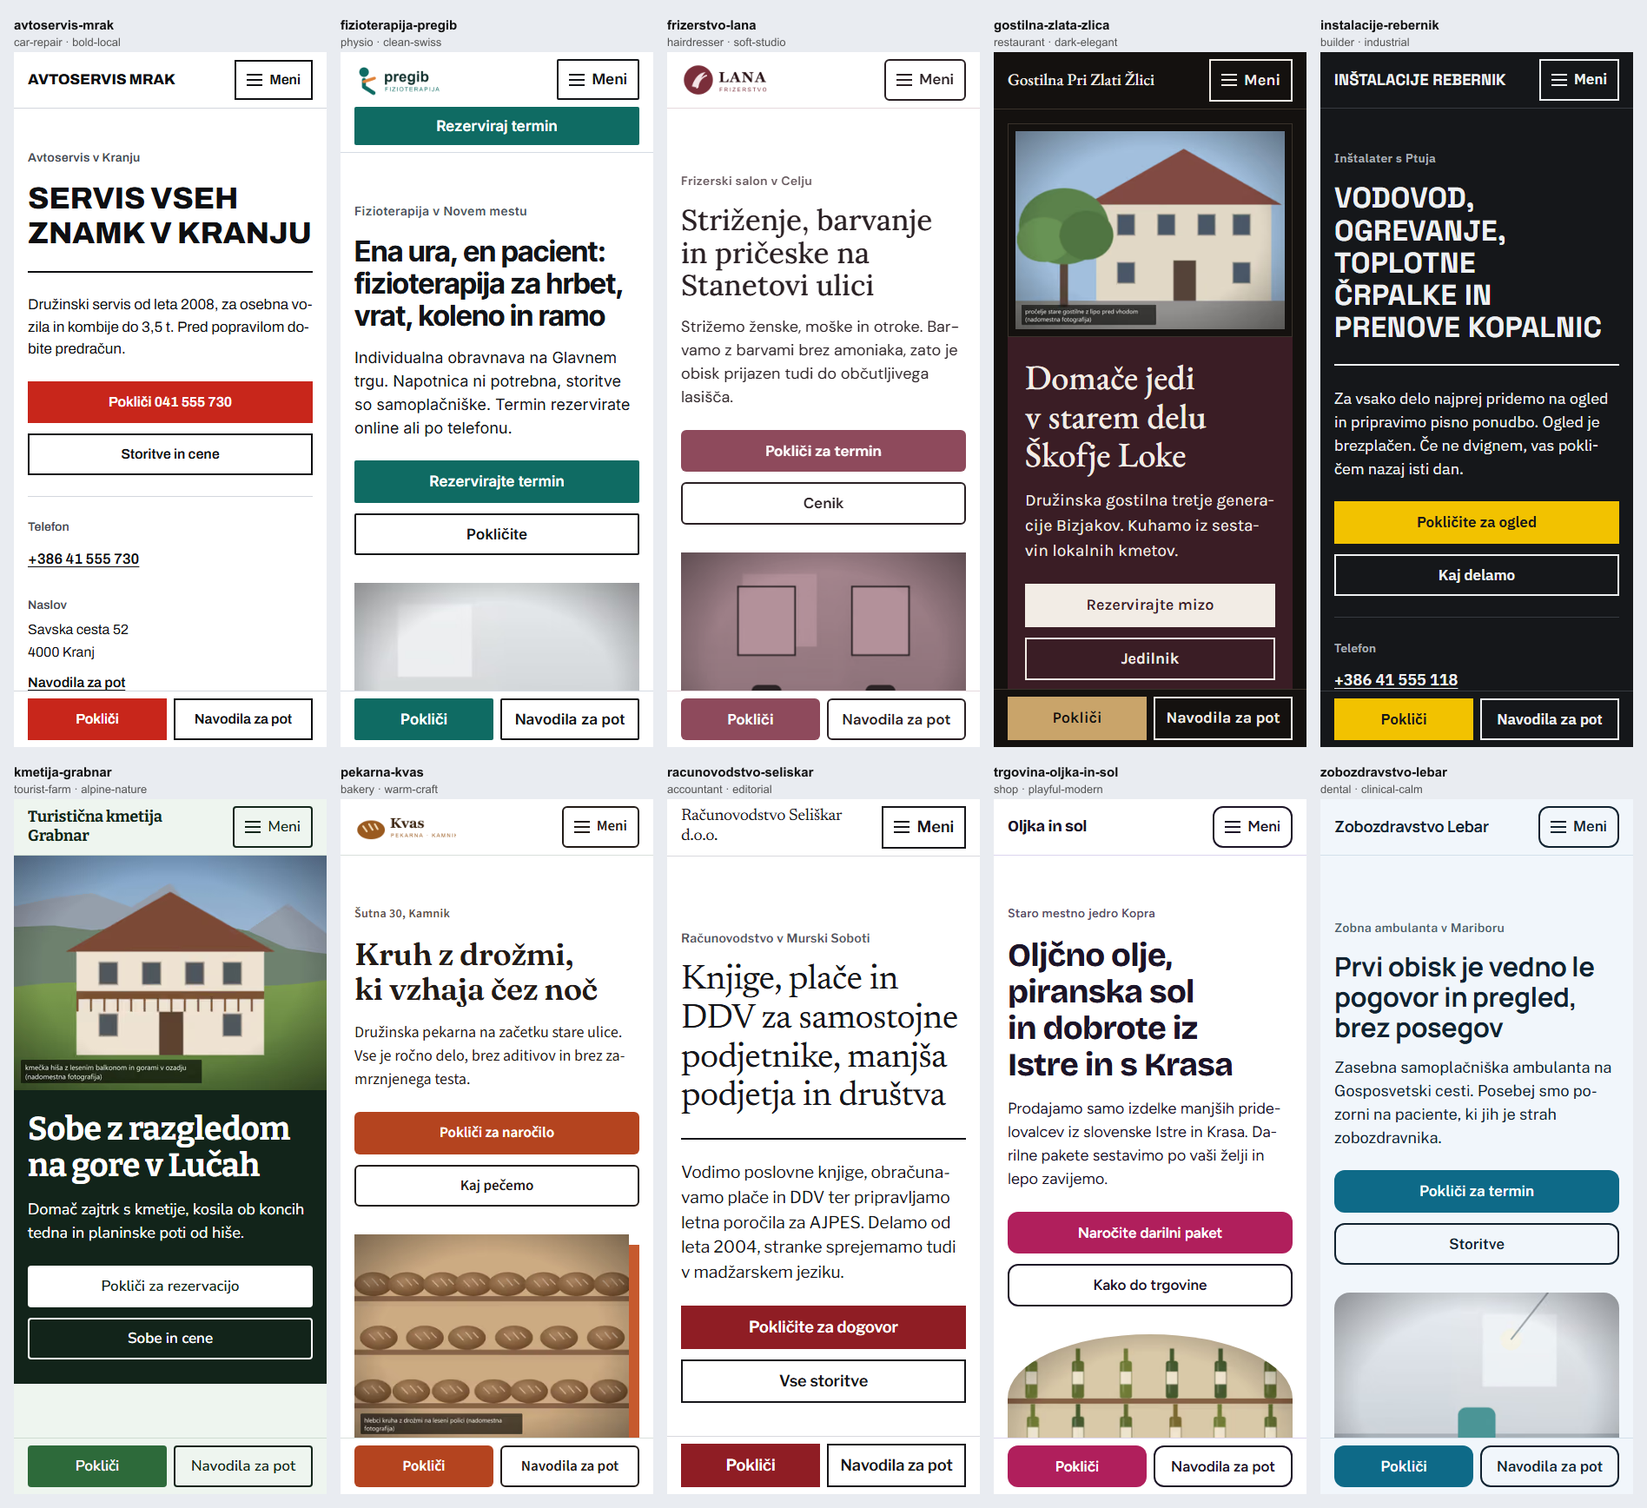
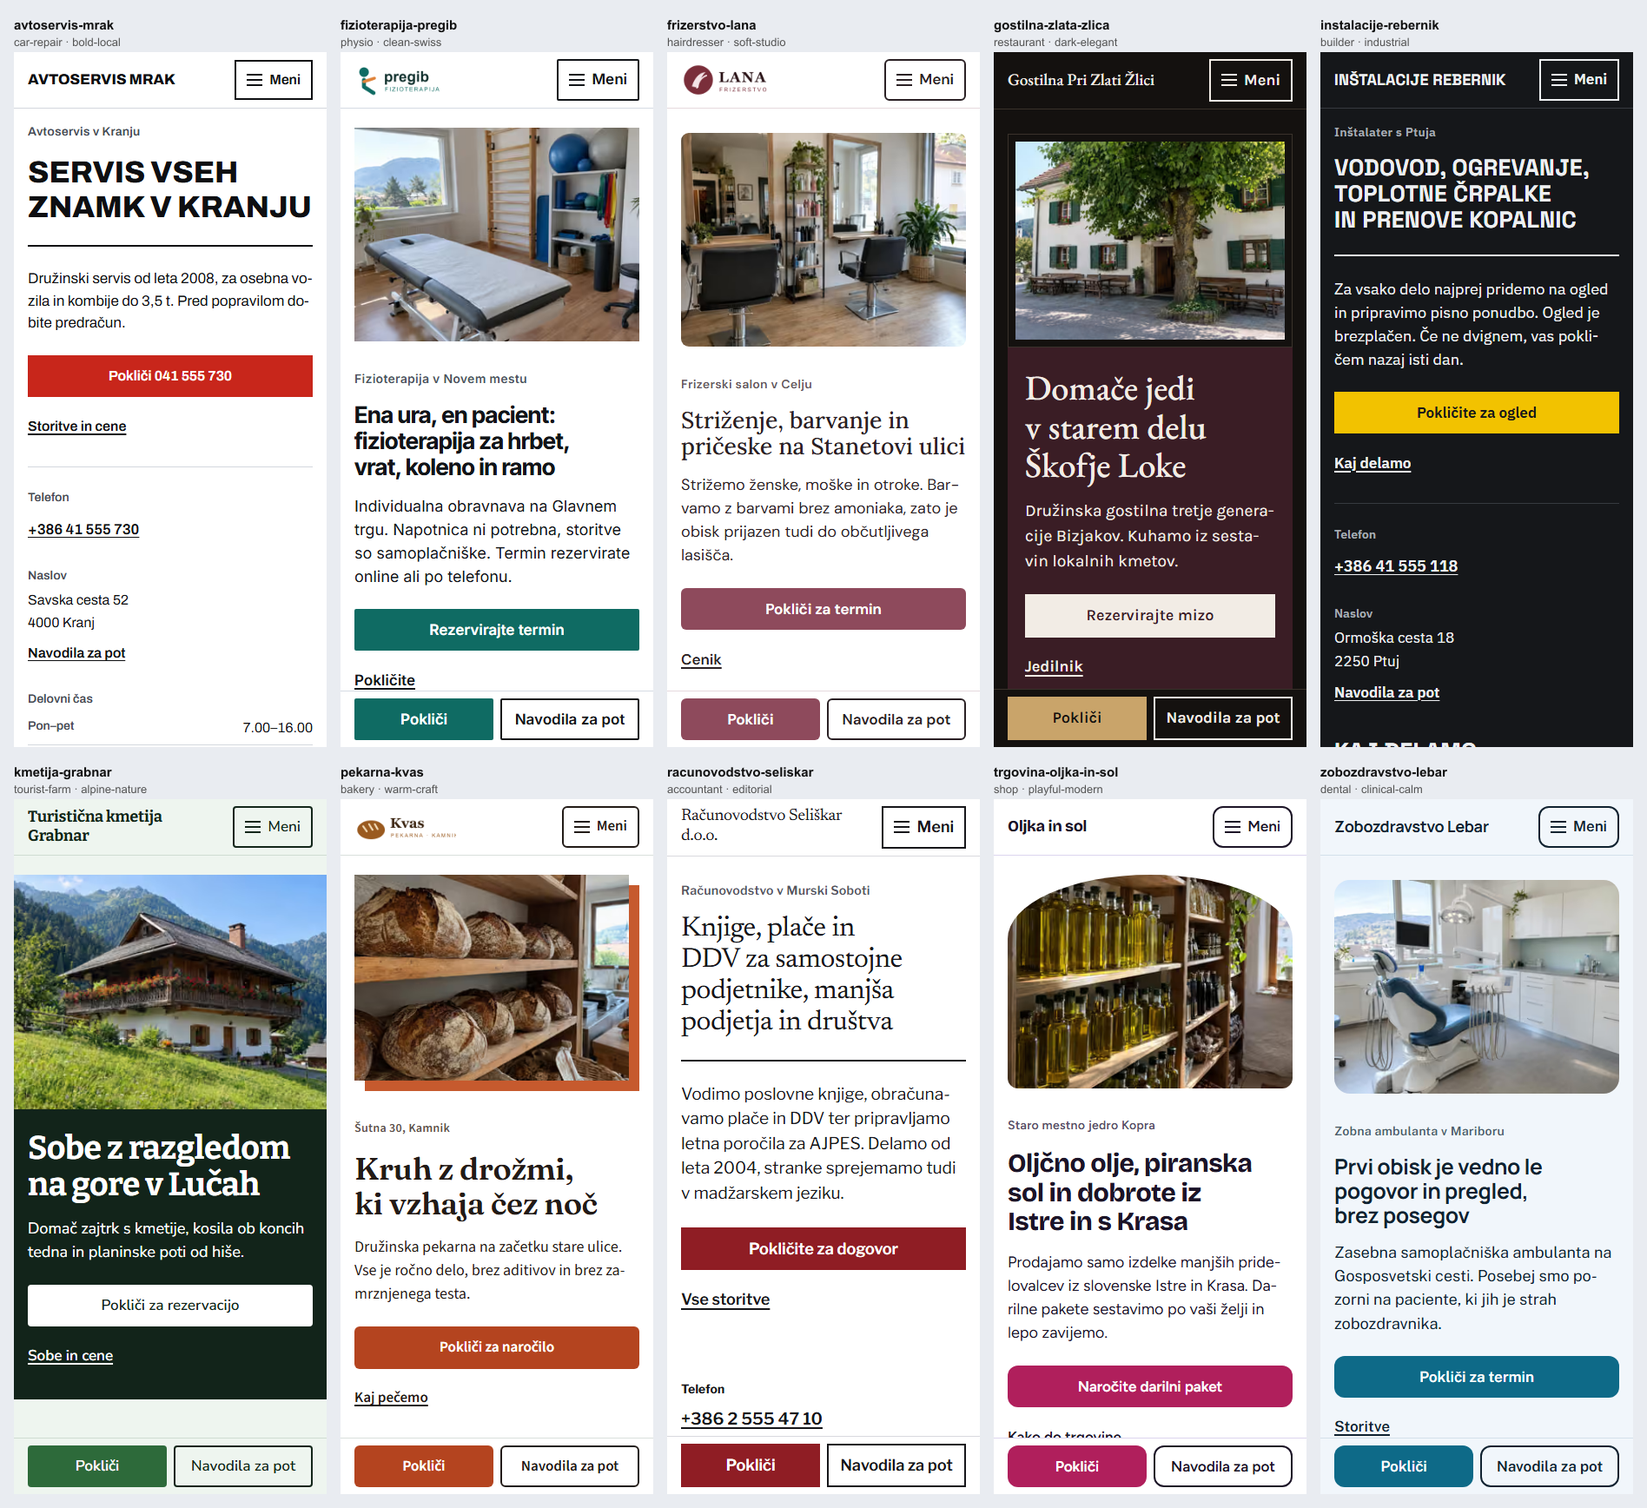
Header CTA not repeated on phones, call-bar test, offline before/after, TASKS
- On phones the header CTA hides when the page opens with the same action (fizio showed
  "Rezerviraj termin" twice); tests for that and for the call bar waiting after the hero.
- eval/offline-report.md: goldens with real photos after the visual rounds. Composition targets
  met on phone 0/10 -> 9/10 and desktop 1/10 -> 8/10 with the same metric; checks 10/10.
- eval/look/ is regenerated by every eval: ignored.

diff --git a/packages/render/test/action-bar.test.ts b/packages/render/test/action-bar.test.ts
@@ -1,0 +1,23 @@
+import { describe, expect, it } from "vitest";
+import { readFileSync } from "node:fs";
+import { migrateSpec, type SiteSpec } from "@sb/spec";
+import { renderPage } from "../src/index.ts";
+
+const golden = (id: string) => migrateSpec(JSON.parse(readFileSync(new URL(`../../../tools/eval/golden/${id}.json`, import.meta.url), "utf8"))) as SiteSpec;
+
+describe("phone call bar", () => {
+  it("waits for the hero to scroll away only when the hero itself offers call and directions", () => {
+    const spec = golden("pekarna-kvas");
+    const home = spec.pages[0]!;
+    const hero = home.sections[0]! as { props: Record<string, unknown> };
+    // pekarna's hero: call + "Kaj pečemo" (a page link), so the bar stays from the start.
+    expect(renderPage(spec, home)).toContain('class="action-bar"');
+    const both = structuredClone(spec);
+    const bothHero = both.pages[0]!.sections[0]! as { props: Record<string, unknown> };
+    bothHero.props = { ...hero.props, secondary: { label: "Navodila za pot", target: { action: "directions" } } };
+    const out = renderPage(both, both.pages[0]!);
+    expect(out).toContain('class="action-bar action-bar--after-hero"');
+    // Other pages open with a page header, so the bar is there from the start.
+    expect(renderPage(both, both.pages[1]!)).toContain('class="action-bar"');
+  });
+});

diff --git a/packages/components/src/chrome/Header.tsx b/packages/components/src/chrome/Header.tsx
@@ -19,8 +19,11 @@ export function Header({ ctx }: { ctx: RenderCtx }) {
   const home = site.pages.find((p) => p.kind === "home");
   const navPages = site.pages.filter((p) => p.nav.show);
   const ctaHref = cta === "none" ? null : ctx.href({ action: cta });
-  // The mobile action bar already carries call and directions; don't repeat them in the narrow header.
-  const ctaWideOnly = site.chrome.mobileActionBar && (cta === "call" || cta === "directions");
+  // On phones, don't repeat an action that is already on screen: the action bar carries call and
+  // directions, and the page's first section often opens with the same action (e.g. booking).
+  const heroProps = page.sections[0]?.props as { primary?: { target?: { action?: string } }; secondary?: { target?: { action?: string } } } | undefined;
+  const heroHasCta = cta !== "none" && [heroProps?.primary?.target?.action, heroProps?.secondary?.target?.action].includes(cta);
+  const ctaWideOnly = (site.chrome.mobileActionBar && (cta === "call" || cta === "directions")) || heroHasCta;
   const logo = site.assets.logo;
 
   return (

diff --git a/packages/components/test/chrome.test.tsx b/packages/components/test/chrome.test.tsx
@@ -70,6 +70,13 @@ describe("Header", () => {
     expect(noBar).not.toContain("site-header__cta--wide-only");
   });
 
+  it("keeps a booking CTA for wide screens only when the page opens with the same action (no duplicate on phones)", () => {
+    const s = spec({ chrome: chrome({ cta: "booking" }) });
+    const hero = { id: "s_hero", type: "hero-type", variant: "large", props: { headline: "Fizioterapija", intro: "Uvod.", primary: { label: "Rezervirajte termin", target: { action: "booking" } } } };
+    const withHero = { ...s, pages: [{ ...s.pages[0]!, sections: [hero, ...s.pages[0]!.sections] } as unknown as typeof s.pages[number], ...s.pages.slice(1)] };
+    expect(html(<Header ctx={testCtx(withHero, withHero.pages[0])} />)).toContain("site-header__cta--wide-only");
+  });
+
   it("renders a booking CTA and hides a CTA whose fact is missing", () => {
     const booking = html(<Header ctx={testCtx(spec({ chrome: chrome({ cta: "booking" }) }))} />);
     expect(booking).toMatch(/href="https:\/\/booking.example.com\/lipa" rel="noopener" target="_blank">Rezerviraj termin</);

diff --git a/eval/offline-report.md b/eval/offline-report.md
@@ -1,6 +1,6 @@
 # Eval report
 
-Mode: **offline**, scope: **full**, started 2026-09-29T13:31:41.386Z, wall time 687.9 s, total model spend €0.000.
+Mode: **offline**, scope: **full**, started 2026-09-30T22:10:03.182Z, wall time 347.2 s, total model spend €0.000.
 
 Offline mode renders hand-authored golden specs with no model calls: it measures the components, directions and checks, not generation quality, cost or time.
 
@@ -8,25 +8,47 @@ Offline mode renders hand-authored golden specs with no model calls: it measures
 
 - Checkpoints passing every automated check: **10/10**
 - Scripted edits: 0 pass, 0 fail, 0 manual
+- Homepages repeating the contact facts (2+ contact blocks): 7/10
+- Homepage skeleton similarity across sites: 0.36 (0 = nothing shared, 1 = same section order)
+- First screen meets the composition targets: phone 9/10, desktop 8/10 (report-only; table below)
+
+## First screen
+
+Measured on the rendered homepage before scrolling: photo share · first photo at (screens) · buttons · headline lines · largest empty band (px). Targets: phone photo ≥ 25 % (with photos), ≤ 3 buttons, ≤ 4 lines, band ≤ 96 px; desktop photo ≥ 30 %, ≤ 3 buttons, ≤ 3 lines, band ≤ 160 px.
+
+| Site | Photos | Phone 360×800 | Misses | Desktop 1280×800 | Misses |
+|---|---|---|---|---|---|
+| avtoservis-mrak | 3 | 0 % · 1.25 · 1 · 2 · 58 | photo 0 % < 25 % | 3 % · 0.87 · 2 · 2 · 85 | photo 3 % < 30 % |
+| fizioterapija-pregib | 1 | 29 % · 0.11 · 3 · 3 · 53 | ✓ | 30 % · 0.15 · 2 · 3 · 113 | ✓ |
+| frizerstvo-lana | 5 | 29 % · 0.12 · 3 · 2 · 81 | ✓ | 30 % · 0.16 · 2 · 2 · 137 | ✓ |
+| gostilna-zlata-zlica | 8 | 26 % · 0.13 · 3 · 3 · 81 | ✓ | 71 % · 0.21 · 2 · 3 · 145 | ✓ |
+| instalacije-rebernik | 0 | 0 % · — · 1 · 3 · 58 | ✓ | 0 % · — · 2 · 3 · 84 | ✓ |
+| kmetija-grabnar | 8 | 35 % · 0.11 · 3 · 2 · 81 | ✓ | 66 % · 0.15 · 1 · 2 · 128 | ✓ |
+| pekarna-kvas | 3 | 28 % · 0.11 · 3 · 2 · 52 | ✓ | 29 % · 0.15 · 2 · 2 · 100 | photo 29 % < 30 % |
+| racunovodstvo-seliskar | 0 | 0 % · — · 3 · 4 · 89 | ✓ | 0 % · — · 2 · 3 · 112 | ✓ |
+| trgovina-oljka-in-sol | 5 | 29 % · 0.11 · 3 · 3 · 48 | ✓ | 30 % · 0.15 · 2 · 3 · 88 | ✓ |
+| zobozdravstvo-lebar | 3 | 29 % · 0.12 · 3 · 3 · 81 | ✓ | 30 % · 0.16 · 2 · 2 · 145 | ✓ |
 
 ## Sites
 
 Lighthouse thresholds: performance ≥ 90, accessibility 100, best practices ≥ 95, SEO ≥ 95.
 
-| Site | Type | Direction | LH P/A/BP/SEO | axe | 360 px width | Facts | Placeholders | Export offline | Gen cost | Gen time | Pass |
-|---|---|---|---|---|---|---|---|---|---|---|---|
-| avtoservis-mrak | car-repair | bold-local | 100/100/100/100 | 0 | 360 | 0 | 4 | ✓ 1.0 MB | — | — | ✓ |
-| fizioterapija-pregib | physio | clean-swiss | 99/100/100/100 | 0 | 360 | 0 | 0 | ✓ 0.8 MB | — | — | ✓ |
-| frizerstvo-lana | hairdresser | soft-studio | 99/100/100/100 | 0 | 360 | 0 | 5 | ✓ 1.2 MB | — | — | ✓ |
-| gostilna-zlata-zlica | restaurant | dark-elegant | 98/100/100/100 | 0 | 360 | 0 | 2 | ✓ 1.3 MB | — | — | ✓ |
-| instalacije-rebernik | builder | industrial | 100/100/100/100 | 0 | 360 | 0 | 1 | ✓ 0.7 MB | — | — | ✓ |
-| kmetija-grabnar | tourist-farm | alpine-nature | 99/100/100/100 | 0 | 360 | 0 | 3 | ✓ 1.4 MB | — | — | ✓ |
-| pekarna-kvas | bakery | warm-craft | 99/100/100/100 | 0 | 360 | 0 | 5 | ✓ 1.0 MB | — | — | ✓ |
-| racunovodstvo-seliskar | accountant | editorial | 98/100/100/100 | 0 | 360 | 0 | 1 | ✓ 0.7 MB | — | — | ✓ |
-| trgovina-oljka-in-sol | shop | playful-modern | 98/100/100/100 | 0 | 360 | 0 | 0 | ✓ 1.1 MB | — | — | ✓ |
-| zobozdravstvo-lebar | dental | clinical-calm | 99/100/100/100 | 0 | 360 | 0 | 0 | ✓ 0.9 MB | — | — | ✓ |
+| Site | Type | Direction | LH P/A/BP/SEO | axe | 360 px width | Facts | Placeholders | Export offline | Gen cost | Gen time | First preview | Pass |
+|---|---|---|---|---|---|---|---|---|---|---|---|---|
+| avtoservis-mrak | car-repair | bold-local | 100/100/100/100 | 0 | 360 | 0 | 4 | ✓ 2.0 MB | — | — | — | ✓ |
+| fizioterapija-pregib | physio | clean-swiss | 99/100/100/100 | 0 | 360 | 0 | 0 | ✓ 1.0 MB | — | — | — | ✓ |
+| frizerstvo-lana | hairdresser | soft-studio | 98/100/100/100 | 0 | 360 | 0 | 5 | ✓ 2.3 MB | — | — | — | ✓ |
+| gostilna-zlata-zlica | restaurant | dark-elegant | 93/100/100/100 | 0 | 360 | 0 | 2 | ✓ 4.8 MB | — | — | — | ✓ |
+| instalacije-rebernik | builder | industrial | 100/100/100/100 | 0 | 360 | 0 | 1 | ✓ 0.7 MB | — | — | — | ✓ |
+| kmetija-grabnar | tourist-farm | alpine-nature | 91/100/100/100 | 0 | 360 | 0 | 3 | ✓ 5.4 MB | — | — | — | ✓ |
+| pekarna-kvas | bakery | warm-craft | 97/100/100/100 | 0 | 360 | 0 | 5 | ✓ 2.3 MB | — | — | — | ✓ |
+| racunovodstvo-seliskar | accountant | editorial | 100/100/100/100 | 0 | 360 | 0 | 1 | ✓ 0.7 MB | — | — | — | ✓ |
+| trgovina-oljka-in-sol | shop | playful-modern | 97/100/100/100 | 0 | 360 | 0 | 0 | ✓ 3.3 MB | — | — | — | ✓ |
+| zobozdravstvo-lebar | dental | clinical-calm | 100/100/100/100 | 0 | 360 | 0 | 0 | ✓ 1.5 MB | — | — | — | ✓ |
 
 ### avtoservis-mrak
+
+Homepage: hero-type:with-facts › services-cards:compact › steps:horizontal › about:text-only › contact:split-map (2 contact blocks).
 
 | Checkpoint | LH P/A/BP/SEO | axe | Valid | Edit check | Failures |
 |---|---|---|---|---|---|
@@ -34,23 +56,31 @@ Lighthouse thresholds: performance ≥ 90, accessibility 100, best practices ≥
 
 ### fizioterapija-pregib
 
+Homepage: hero-split:image-right › contact-strip:bar › services-list:rows › highlights:columns › about:text-only › booking:with-hours › contact:split-map (3 contact blocks).
+
 | Checkpoint | LH P/A/BP/SEO | axe | Valid | Edit check | Failures |
 |---|---|---|---|---|---|
 | generated | 99/100/100/100 | 0 | ✓ |  | — |
 
 ### frizerstvo-lana
 
-| Checkpoint | LH P/A/BP/SEO | axe | Valid | Edit check | Failures |
-|---|---|---|---|---|---|
-| generated | 99/100/100/100 | 0 | ✓ |  | — |
-
-### gostilna-zlata-zlica
+Homepage: hero-split:image-left › contact-strip:cards › services-list:rows › about:image-side › gallery:grid › booking:simple (1 contact block).
 
 | Checkpoint | LH P/A/BP/SEO | axe | Valid | Edit check | Failures |
 |---|---|---|---|---|---|
 | generated | 98/100/100/100 | 0 | ✓ |  | — |
 
+### gostilna-zlata-zlica
+
+Homepage: hero-image:overlay-left › booking:with-hours › image-text:image-right › image-text:image-left › about:image-side › gallery:grid › contact:stacked (2 contact blocks).
+
+| Checkpoint | LH P/A/BP/SEO | axe | Valid | Edit check | Failures |
+|---|---|---|---|---|---|
+| generated | 93/100/100/100 | 0 | ✓ |  | — |
+
 ### instalacije-rebernik
+
+Homepage: hero-type:with-facts › services-list:two-column › steps:horizontal › text:two-column › service-area:list › about:text-only › cta:split (1 contact block).
 
 | Checkpoint | LH P/A/BP/SEO | axe | Valid | Edit check | Failures |
 |---|---|---|---|---|---|
@@ -58,30 +88,40 @@ Lighthouse thresholds: performance ≥ 90, accessibility 100, best practices ≥
 
 ### kmetija-grabnar
 
+Homepage: hero-image:overlay-bottom › contact-strip:bar › highlights:columns › image-text:image-left › about:text-only › gallery:mosaic › contact:split-map (2 contact blocks).
+
 | Checkpoint | LH P/A/BP/SEO | axe | Valid | Edit check | Failures |
 |---|---|---|---|---|---|
-| generated | 99/100/100/100 | 0 | ✓ |  | — |
+| generated | 91/100/100/100 | 0 | ✓ |  | — |
 
 ### pekarna-kvas
 
+Homepage: hero-split:image-left › contact-strip:bar › products:grid › about:image-side › steps:horizontal › opening-hours:compact › contact:split-map (3 contact blocks).
+
 | Checkpoint | LH P/A/BP/SEO | axe | Valid | Edit check | Failures |
 |---|---|---|---|---|---|
-| generated | 99/100/100/100 | 0 | ✓ |  | — |
+| generated | 97/100/100/100 | 0 | ✓ |  | — |
 
 ### racunovodstvo-seliskar
 
+Homepage: hero-type:large › contact-strip:bar › services-list:rows › text:two-column › about:text-only › contact-form:split › cta:split (1 contact block).
+
 | Checkpoint | LH P/A/BP/SEO | axe | Valid | Edit check | Failures |
 |---|---|---|---|---|---|
-| generated | 98/100/100/100 | 0 | ✓ |  | — |
+| generated | 100/100/100/100 | 0 | ✓ |  | — |
 
 ### trgovina-oljka-in-sol
 
+Homepage: hero-split:image-right › contact-strip:bar › products:grid › announcement:card › steps:horizontal › image-text:image-left › contact:split-map (2 contact blocks).
+
 | Checkpoint | LH P/A/BP/SEO | axe | Valid | Edit check | Failures |
 |---|---|---|---|---|---|
-| generated | 98/100/100/100 | 0 | ✓ |  | — |
+| generated | 97/100/100/100 | 0 | ✓ |  | — |
 
 ### zobozdravstvo-lebar
 
+Homepage: hero-split:image-right › booking:with-hours › services-list:two-column › steps:vertical › team:list › contact:split-map (2 contact blocks).
+
 | Checkpoint | LH P/A/BP/SEO | axe | Valid | Edit check | Failures |
 |---|---|---|---|---|---|
-| generated | 99/100/100/100 | 0 | ✓ |  | — |
+| generated | 100/100/100/100 | 0 | ✓ |  | — |

diff --git a/TASKS.md b/TASKS.md
@@ -53,10 +53,12 @@ Fixed on the branch (tests + live eval live home eval 2026-09-30, `eval/report-h
 Next, in the owner's order (chat 2026-09-30: images first, "the visuals can be better", "like image-model-comparison.jpg", "you need a way to look"):
 - [x] One entry point (owner, 2026-09-30: "/new is redundant, it confuses which page is the main one"): the landing page's prompt box is the intake (photos, logo, Domača/Celotna stran, "Ustvari" posts to /api/sites and opens the editor; a refusal re-renders the landing page with the reason and the text); `/new` redirects to `/#zacni`; "Nova stran" and the empty sites list point there; signed out, the prompt goes to the login and the text and scope come back on `/` (never in the URL). Checked in a browser locally at 1280 and 375 px: signed-in submit → editor; signed-out → login → text, scope and focus restored; no sideways scroll. Landing copy: "enako dober na telefonu in računalniku", measured 23 s / 73 s instead of 110 s
 - [x] Landing page example (Pekarna Kvas) with three generated photos (GPT Image 2.5, 480/960 px WebP, 28–117 KB), each labelled "ustvarjeno z UI"; captions say the example is fictional and its photos generated
-- [ ] Real fixture photos: all 36 with GPT Image 2.5 in the comparison's style (~€2.45), committed; copy that promises "no invented images" (landing FAQ, "Kako deluje") changes together with builder image generation
-- [ ] Looking tools: per-site review sheets (phone first screen with sticky bar, whole phone page in columns, desktop first screen + full page) and cross-site sheets; composition numbers measured on the rendered page (photo share of the first phone screen, buttons in it, headline lines, largest empty band, first photo's position) with targets in config; a vision judge with a written rubric in the eval (scores + one-line reasons), checked against a human look at the same sheets. Baseline before any visual change
+- [x] Real fixture photos (2026-09-30): all 36 with GPT Image 2.5 in the comparison's style, €2.44, 0 failed, 7.9 MB committed with `photo-manifest.json` (model, prompt, cost); looked at all 36: realistic, no stray lettering. Copy that promises "no invented images" (landing FAQ, "Kako deluje") changes together with builder image generation
+- [x] Looking tools (2026-09-30): `eval/look/<site>.png` review sheets (phone and desktop first screens as a visitor sees them, whole pages) + `desktop-first-screens.png`, built after every eval (`tools/eval/src/look.ts`); composition measured on the rendered homepage at 360×800 and 1280×800 (photo share, first photo position, buttons, headline lines, largest empty band on one background) with report-only targets in `config.checks.composition`; vision judge (`tools/eval/src/judge.ts`, eval only, €0.023/site, `--judge`). Calibration: on avtoservis my own blind scores were 2.8/2.8 (phone/desktop), the judge's 2.8/2.8 with the same weak spots
+- [ ] Judge baseline for all 10 sites: only 5 scored (phone median 2.8, desktop 3.2) before the Anthropic API ran out of credits (2026-09-30 23:25); re-run `pnpm eval --offline --judge` and a live home eval with --judge once credits are topped up
 - [ ] Responsive, not mobile-first (owner, 2026-09-30; CLAUDE.md and PRODUCT.md updated): the prompt's "Mobile first" rule, critique input (whole desktop page, not only its top), review sheets, composition numbers and judge rubric give desktop and phone equal weight
-- [ ] Visual changes judged with those tools, designed for desktop and phone together: photo-first hero on phones when a good photo exists, one primary action per hero (directions as a text link), sticky bar only after the hero scrolls away, no empty band above the headline, header/hero families per direction
+- [x] Visual round 1–2 (2026-10-01, measured offline on the 10 goldens with real photos): photos in true colour (duotone/monochrome recoloured them), photo first in the phone hero, one primary action per hero (the second is a text link), the call bar waits until the hero scrolls away when the hero itself offers call and directions, no duplicate header CTA on phones, tighter spacing (same-tone neighbours share one gap, smaller phone padding, less space above the first section), a squarer desktop hero photo, consent notice in the page flow (it covered desktop content), long headlines step down. Composition targets met: phone 0/10 → 9/10, desktop 1/10 → 8/10 (same metric both times; see `eval/offline-report.md`; checks 10/10 before and after). Not yet measured on generated sites (API credits)
+- [ ] Visual changes still open, designed for desktop and phone together: generation should pick a photo hero when the owner gave good photos (avtoservis golden and many generated homepages open with a type-only hero although photos exist); header and hero families per direction; the formulaic "<type> v <kraj>" eyebrow; judge scores on generated sites
 - [ ] Builder image generation for clients with too few photos (overrides open decision `sb-images-client-sites`): ≤ 2 per site, only hero/image-text/page-header (validated), labelled "ustvarjeno z UI" on the site, spec v3 `origin`, cost logged per call under the daily cap. WIP patch in the session scratchpad
 Backlog:
 - [ ] Sameness: per-business-type homepage blueprints + hero/header families (item below) + one call button per screen. Today: skeleton similarity 0.42, 9/10 end with the same dark CTA band, 8/10 show a call button in header, hero, sticky bar and closing band
